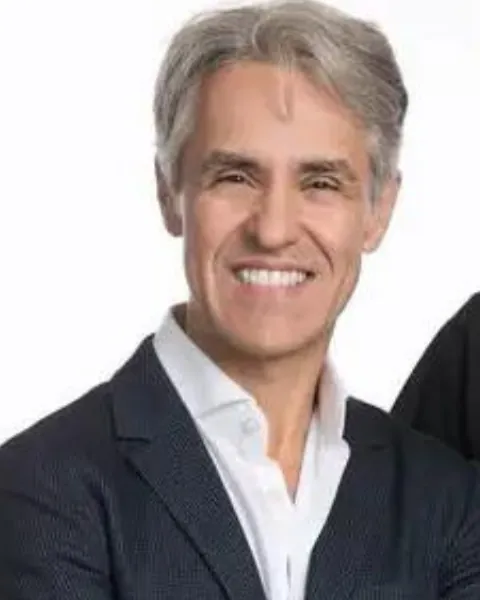
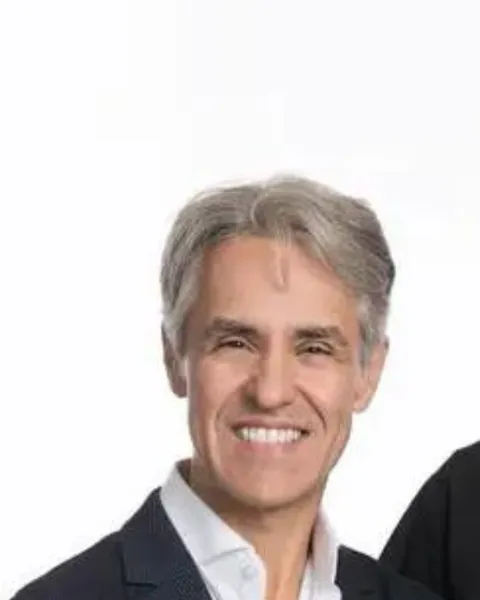
Fix cropped doctor portraits
Re-crop both portraits with headroom and show them uncropped (1:1, top-aligned)
in the desktop doctor cards instead of a 4:3 box that cut off the heads.

Claude-Session: https://claude.ai/code/session_01M9aRnyNRgx1xA6h1suJLD1

diff --git a/assets/css/styles.css b/assets/css/styles.css
@@ -386,7 +386,7 @@ h3 { font-size: 1.2rem; }
 @media (min-width: 900px) {
   .doctors { grid-template-columns: 1fr 1fr; }
   .doctor { grid-template-columns: 1fr; }
-  .doctor__photo img { aspect-ratio: 4 / 3; object-position: center 20%; height: auto; }
+  .doctor__photo img { aspect-ratio: 1 / 1; object-position: center top; height: auto; }
 }
 
 /* ---------- Reviews ---------- */
